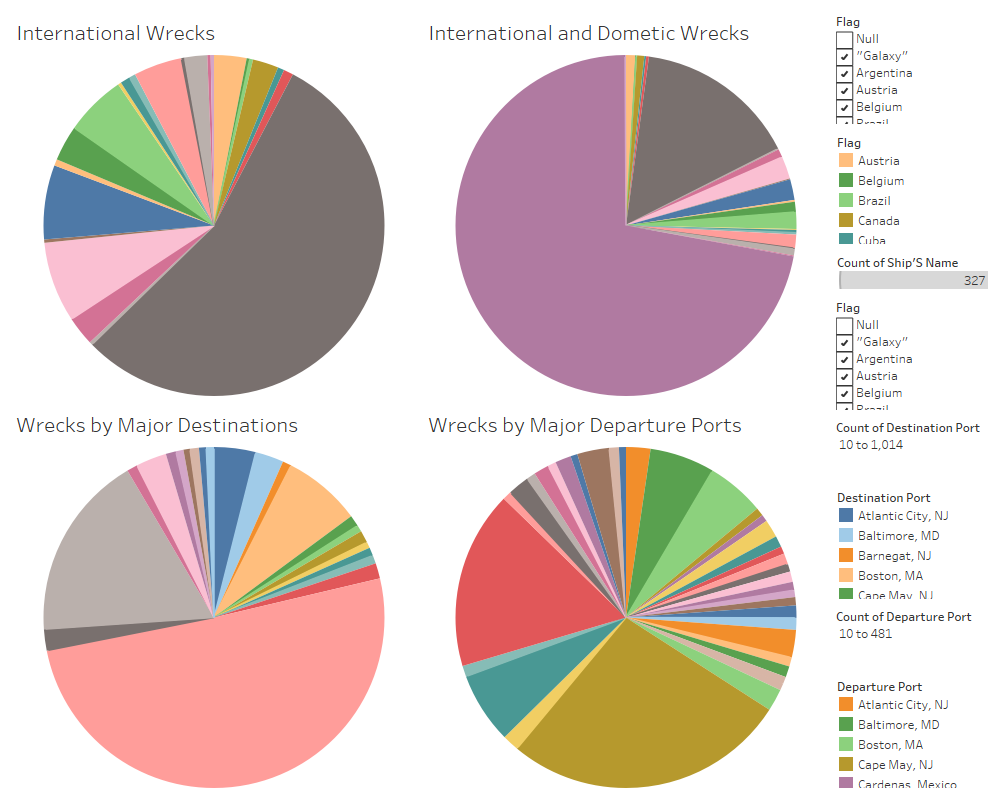
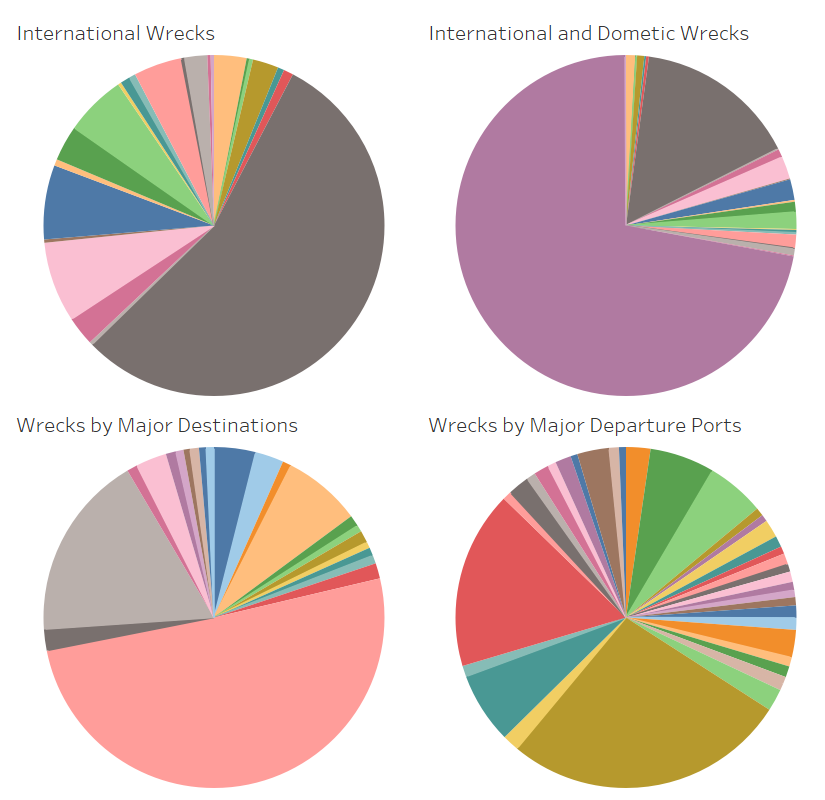
Large list of changes see below --Added full three paragraphs to the about page --Added visualizations to the about page --Added some CSS to deal with images --Created new version of some of the images --Added Background page that deals with project background information --Added visualization to Ba

diff --git a/about.html b/about.html
@@ -38,7 +38,7 @@
             <a class="nav-link" href="about.html">About</a>
           </li>
           <li class="nav-item">
-            <a class="nav-link" href="#">Services</a>
+            <a class="nav-link" href="background.html">Background</a>
           </li>
           <li class="nav-item">
             <a class="nav-link" href="#">Contact</a>
@@ -64,8 +64,16 @@
   <div class="col-md-8 mb-5">
     <h2>An Increase In Ship Wrecks</h2>
     <hr>
-    <p>Our project focuses on an increase in shipwrecks during the 19th century. Our goal is to find out how technological advancements during this time period contributed to these wrecks.We decided to focus on a data spike that occurred between 1820-1890. A span of 70 years where shipwrecks dramatically increased, to explain this, we dove into the surrounding history around these shipwrecks during this period to find any possible outliers or anomalies that inadvertently contributed to this peak in shipwrecks.The overview of our project focuses on the history relating to the evolution of ships during this time period.The rapid advancement in ship technologies initially had a detrimental effect on ship safety causing a disproportionate increase of shipwrecks in the post Civil War United States. These technologies include a change in materials used for constructing ships, design of ships, increasing evolution of composite engines, and increased productions of ships as well. This data is relevant to our argument because using different software technology, we can create data visualizations based on this data set to show the historic evolution and relevance of shipwrecks. How did the advancement in ship design and infrastructure during the 19th century effect the dramatic increase in shipwrecks observed off the New Jersey coast in the second half of the 19th century?</p>
-    <p>During the latter half of the 19th century, technological advancements in ship design and composite engine design led to a huge increase in manufacturing and production speed for ships. This led to a major increase in the amount of ships being produced in a much shorter time span leading to possible engine failures or integral failures within the ships due to no safety policies being implemented and being overlooked. Another major factor that played a role in this data spike was the combined effects of the civil war as well as the industrial revolution. The industrial revolution led to a huge increase of manufacturing efforts as an effort to keep up with globalization. This speed increase led to technological advancements exponentially growing around the U.S. as well as a huge increase in the evolution of composite engines being manufactred for various ships. This level of increase led to engine failures due to safety inspections not being in place as well as no form of safety policies being put in place either. The Civil War during this time increased the demand for ships as both armies during this time relied on supplies being delivered for ammunition or food. Special ships called Blockade Runners were designed for this very purpose. Fast and versatile, these ships could traverse ocean waters at around 25 knots, but structurally, weren't very safe. As well as this, these ships would deliver supplies at night and wouldn't run their fog lights to avoid detection from either army. This would create a dangerous environment and led to an increase in shipwrecks due to various blockade runners crashing against rocks because of impaired visibility.</p>
+    <p>Our project focuses on a data spike that occurred between 1850-1900. A span of 50 years where shipwrecks dramatically increased, to explain this, we dove into the surrounding history around these shipwrecks during this period to find any possible outliers or anomalies that inadvertently contributed to this peak in shipwrecks.The overview of our project focuses on the state of technology and globalization during this history, focusing on the history relating to the evolution of ships during this time period.The rapid advancement in ship technologies initially had a detrimental effect on ship safety causing a disproportionate increase of shipwrecks in the post Civil War United States. These technologies include a change in materials used for constructing ships, design of ships, increasing evolution of composite engines, and increased productions of ships as well. This data is relevant to our argument because using different software technology, we can create data visualizations based on this data set to show the historic evolution and relevance of shipwrecks. The advancement in ship design and infrastructure during the 19th century had a dramatic increase in shipwrecks observed off the New Jersey coast in the second half of the 19th century.</p>
+    <img src="images/wrecksByGrossPerYearFull.png">
+    <p>For our sources, we relied on the Dawlish Chronicles, Life At Sea In Merchant Service. This article uses excerpts from the book Wreck of the Copeland at South Shields. Written and published by John Newington Carter in 1861. Carter provides a profound insight into the impact that ship designs had on seamen during the 19th century. The articles illustrated the history of sea merchants' lives during the 19th century as well as describing integral failures within ships and what caused so many shipwrecks during this time. Our other primary source was Historic England, Ships, and Boats: 1840-1950, written by the English Heritage using excerpts from the author, David Noton. This article was published in 2012 and dove into the evolution of contemporary ship design. Our data stems from the New Jersey Maritime Museum's data table and collection of shipwrecks (Onshore and offshore) within the past 300 years. These contributions are somewhat successful because they implement American history as well as the ever expansion of shipbuilding technologies during this time. The scholars also try to conclude an effect on the people associated with the shipwrecks. To elaborate, the people that would use ships as a way to travel between countries and their outlook on ships during these different eras in time. Some argued that no one dared to enter a ship, especially merchants during the 19th century. "The situation was made worse still by the fact that once a seaman had signed on for a voyage – which on occasion poverty might force him to do without having first seen the ship itself – refusal to board could result in criminal prosecution and imprisonment with hard labor, typically for twelve weeks." (The Dawlish Chronicles, John Newington Carter, 1861) The fear of traveling provoked an increase in imprisonment as well because most seamen would refuse to travel by sea and face prison because they knew just how dangerous traversing waters with these ships were.</p>
+    <img src="images/TradePieCharts.png">
+    <!-- will revise this vizualization so it displays more information -->
+    <p>
+      Some contradictions within the literature that exist were between the two scholarly articles about the relationship between ship design and safety. One author (David Noton) argues that ship design increased the safety of ships and enforced safety regulations during the early 19th century, while Carter argues that these designs and regulations were not fully implemented until almost the 20th century. This absence creates a disconnect between the authenticity of this history. However, after critiquing multiple sources, it can be incorporated in the fact that these regulations did not take place until the 1890s (John Newington Carter, 1861) With this, we took away that these authors implement factual historical events, we just made the association between them. We realized that the correspondence between the two is paramount in understanding the causes of shipwrecks and what caused their numbers to fluctuate throughout time. What questions need to be answered is how this peak affects shipwrecks as a whole? What were shipbuilding technologies used for safety rather than speed? Do these implementations lead up to the safety regulations being implemented? Or instead, another increase in ship speed and the overlooked safety regulations that should have been put in place? If safety regulations were heavily enforced before the start of the 19th century, would the data have spiked so much, or even at all? The answers to these questions would help us further understand the overall connection and significance of these shipwrecks, and what effect they had on human life surrounding them not just on sea, but people around the world. People that used ships to travel, what were their mindsets and thoughts of sea travel at this time? Was it safe? Or too dangerous to even attempt?
+    </p>
+    <img src="images/wrecksByTypeCountYear.png">
+    <p>Throughout this period, technological changes were imminent and increasing at a rather exponential rate. Ship design and engine evolution were amid a breakthrough since the 1700s, and these changes led to faster ships. However, one key point to take away from this is that because these ship designers and engineers were so focused on ship speeds rather than higher aggregate features and safety implementations within the ships, this increased the probability of a shipwreck. When considering the blockade runner ships, high powered composite engine ships that were designed solely for transporting supplies to the confederate armies during the civil war off the east coast. Later on however, to avoid detection, these ships would face dangerous or even deadly scenarios by traversing through the dense fog at night without lights on to avoid detection from union soldiers. Another constituent that played a rather large part in the increase of shipwrecks was the fact that safety statutes had not yet been fulfilled for ships. Instead, ship captains would find any way around safety specifications knowing they were not put into law yet. These encompassing events caused concern for the safety of ships because most of the ships in this period were very feeble, made of rotting wood. These conditions would indeed cause pathogens that led to deadly diseases aboard these ships further exacerbating the dangerous trips. Lastly, we would like to help others understand the history surrounding these shipwrecks, and that there is much more to data than meets the eye, with provocative research, we can conclude that these shipwrecks changed people's views on sea travel during the time, and we would like to express to the audience the real significance of these wrecks.</p>
   </div>
   <div class="col-md-4 mb-5">
     <h2>Contact Us</h2>

diff --git a/background.html b/background.html
@@ -1,0 +1,108 @@
+<!DOCTYPE html>
+<html lang="en">
+
+<head>
+
+  <meta charset="utf-8">
+  <meta name="viewport" content="width=device-width, initial-scale=1, shrink-to-fit=no">
+  <meta name="description" content="">
+  <meta name="author" content="">
+
+  <title>Shipwrecks - Technological Advancements In Ship Design</title>
+
+  <!-- Bootstrap core CSS -->
+  <link href="vendor/bootstrap/css/bootstrap.min.css" rel="stylesheet">
+
+  <!-- Custom styles for this template -->
+  <link href="css/business-frontpage.css" rel="stylesheet">
+
+</head>
+
+<body>
+
+  <!-- Navigation -->
+  <nav class="navbar navbar-expand-lg navbar-dark bg-dark fixed-top">
+    <div class="container">
+      <a class="navbar-brand" href="#">Shipwrecks</a>
+      <button class="navbar-toggler" type="button" data-toggle="collapse" data-target="#navbarResponsive" aria-controls="navbarResponsive" aria-expanded="false" aria-label="Toggle navigation">
+        <span class="navbar-toggler-icon"></span>
+      </button>
+      <div class="collapse navbar-collapse" id="navbarResponsive">
+        <ul class="navbar-nav ml-auto">
+          <li class="nav-item">
+            <a class="nav-link" href="index.html">Home
+              <span class="sr-only">(current)</span>
+            </a>
+          </li>
+          <li class="nav-item">
+            <a class="nav-link" href="about.html">About</a>
+          </li>
+          <li class="nav-item active">
+            <a class="nav-link" href="background.html">Background</a>
+          </li>
+          <li class="nav-item">
+            <a class="nav-link" href="#">Contact</a>
+          </li>
+        </ul>
+      </div>
+    </div>
+  </nav>
+
+  <!-- Header -->
+  <header class="bg-primary py-5 mb-5">
+    <div class="container h-100">
+      <div class="row h-100 align-items-center">
+        <div class="col-lg-12">
+          <h1 class="display-4 text-white mt-5 mb-2">An Overview Of Shipwrecks In The 19th Century</h1>
+        </div>
+      </div>
+    </div>
+  </header>
+
+
+  <!-- Page Content -->
+  <div class="container">
+
+    <div class="row">
+      <div class="col-md-8 mb-5">
+        <h2>An Increase In Ship Wrecks</h2>
+        <hr>
+        <p>We based our project off of data colected by the <a href="njmaritimemuseum.org">New Jersey Maratime Museum</a>. The dataset starts in the 18th century and covers some 4000 individual incidents, mostly spanning the new jersey coast, but with a few in the greater new jersey area. </p>
+        <img src="images/HeatMap.png">
+        <p>Looking at the dataset and doing some intial investigation into the dataset we found a spike around the mid 19th century which we couldn't attribute to anything particularly obvious. It started during the civil war and continued afterward, indicating it was not specfically related to the war, or linked to some postwar economic boom. This inspired us to look a little deeper into this surprsing uptick in wrecks. This is when we came across information about ship technologies at the time. This eventually led us to follow the trail of ship design in the era and we found it linked pretty closely to the time frame for novel ship innovations.</p>
+      </div>
+      <div class="col-md-4 mb-5">
+        <h2>Contact Us</h2>
+        <hr>
+        <address>
+          <strong>Western Washington University</strong>
+          <br>515 High Street
+          <br>Bellingham, WA 98225
+          <br>
+        </address>
+        <address>
+          <abbr title="Phone">Phone:</abbr>
+          (206) 556-1720
+          <br>
+          <abbr title="Email">Email:</abbr>
+          <a href="mailto:#">jonesj76@wwu.edu</a>
+        </address>
+      </div>
+    </div>
+
+  </div>
+  <!-- Footer -->
+  <footer class="py-5 bg-dark">
+    <div class="container">
+      <p class="m-0 text-center text-white">Copyright &copy; Your Website 2019</p>
+    </div>
+    <!-- /.container -->
+  </footer>
+
+  <!-- Bootstrap core JavaScript -->
+  <script src="vendor/jquery/jquery.min.js"></script>
+  <script src="vendor/bootstrap/js/bootstrap.bundle.min.js"></script>
+
+</body>
+
+</html>

diff --git a/index.html b/index.html
@@ -38,7 +38,7 @@
             <a class="nav-link" href="about.html">About</a>
           </li>
           <li class="nav-item">
-            <a class="nav-link" href="#">Services</a>
+            <a class="nav-link" href="background.html">Background</a>
           </li>
           <li class="nav-item">
             <a class="nav-link" href="#">Contact</a>

diff --git a/css/business-frontpage.css b/css/business-frontpage.css
@@ -20,3 +20,6 @@ header {
 .White{
   text-decoration-color: white;
 }
+img{
+	width: 100%;
+}
